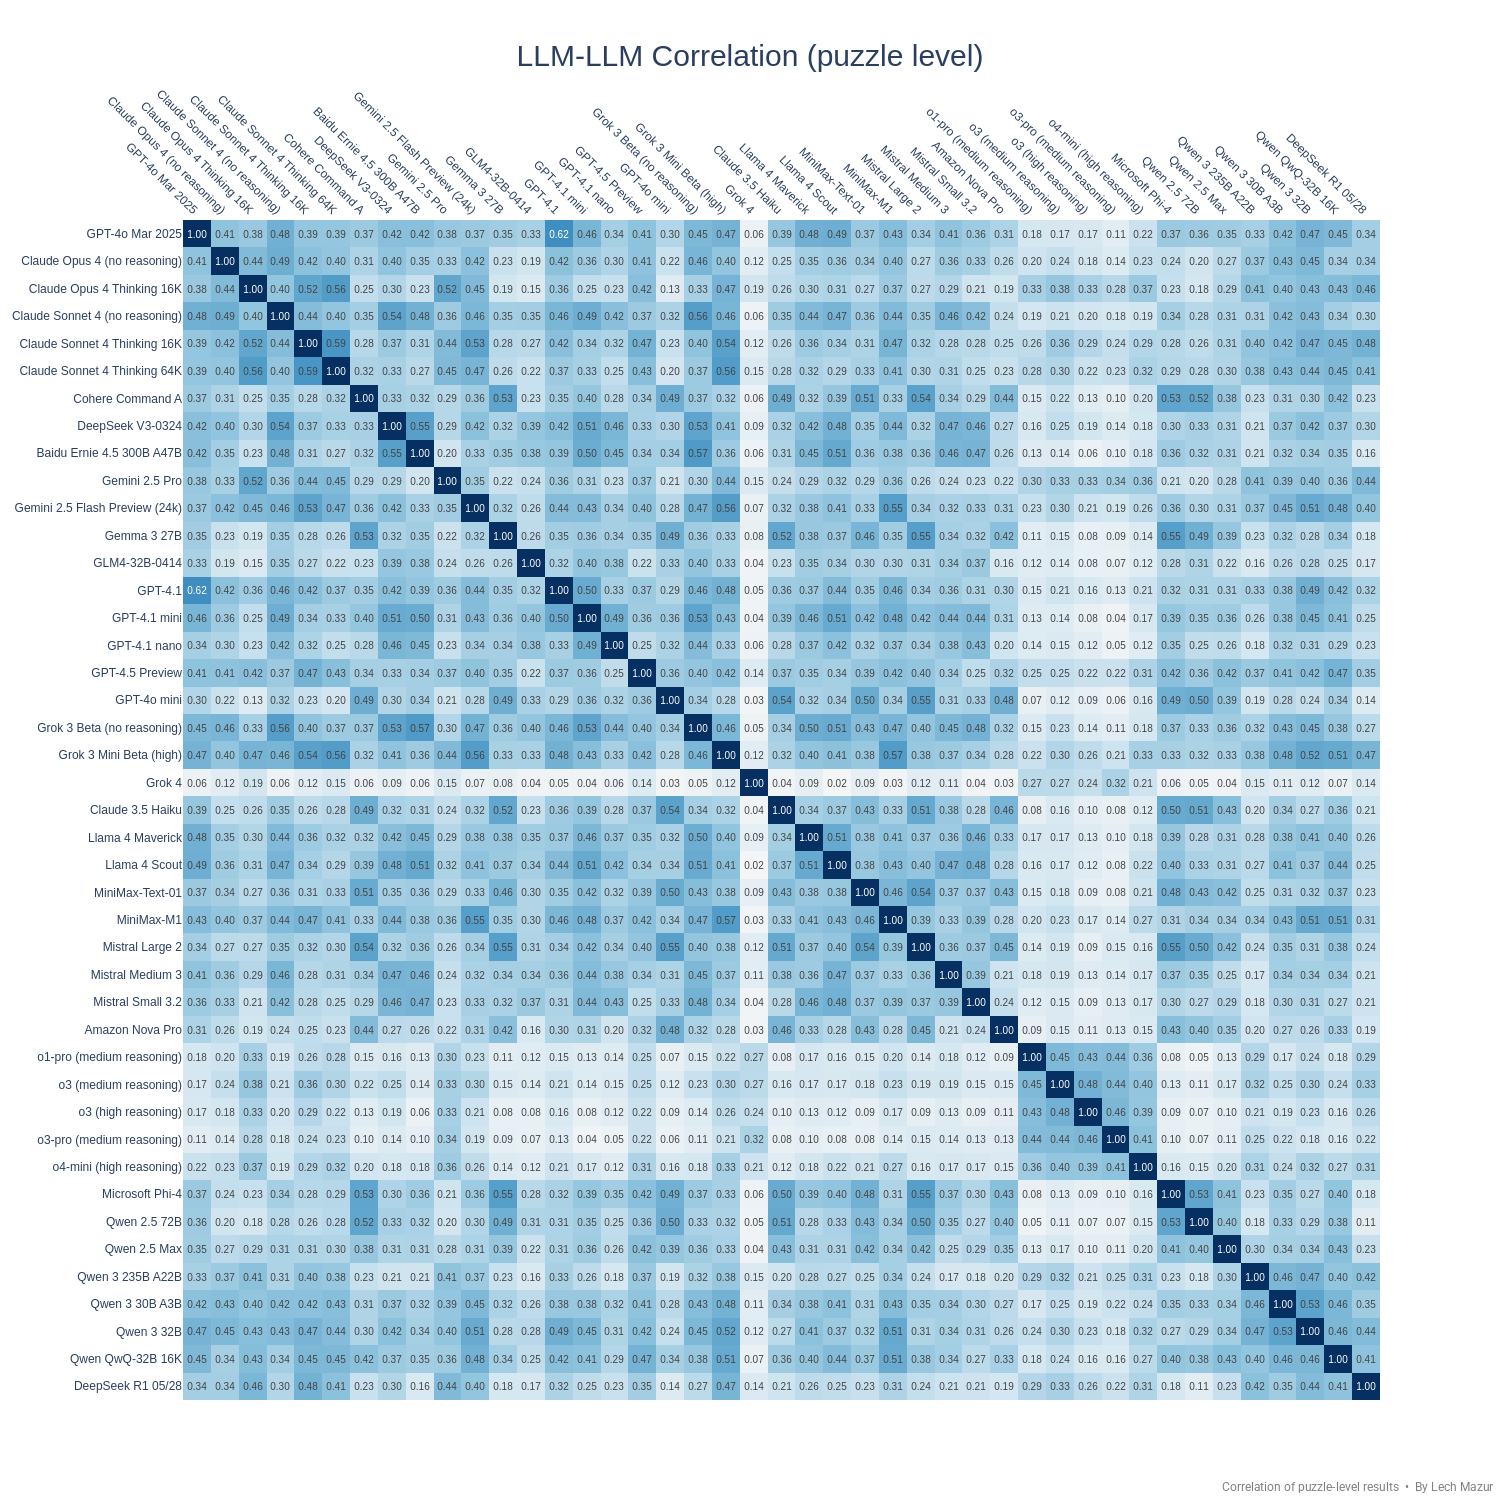
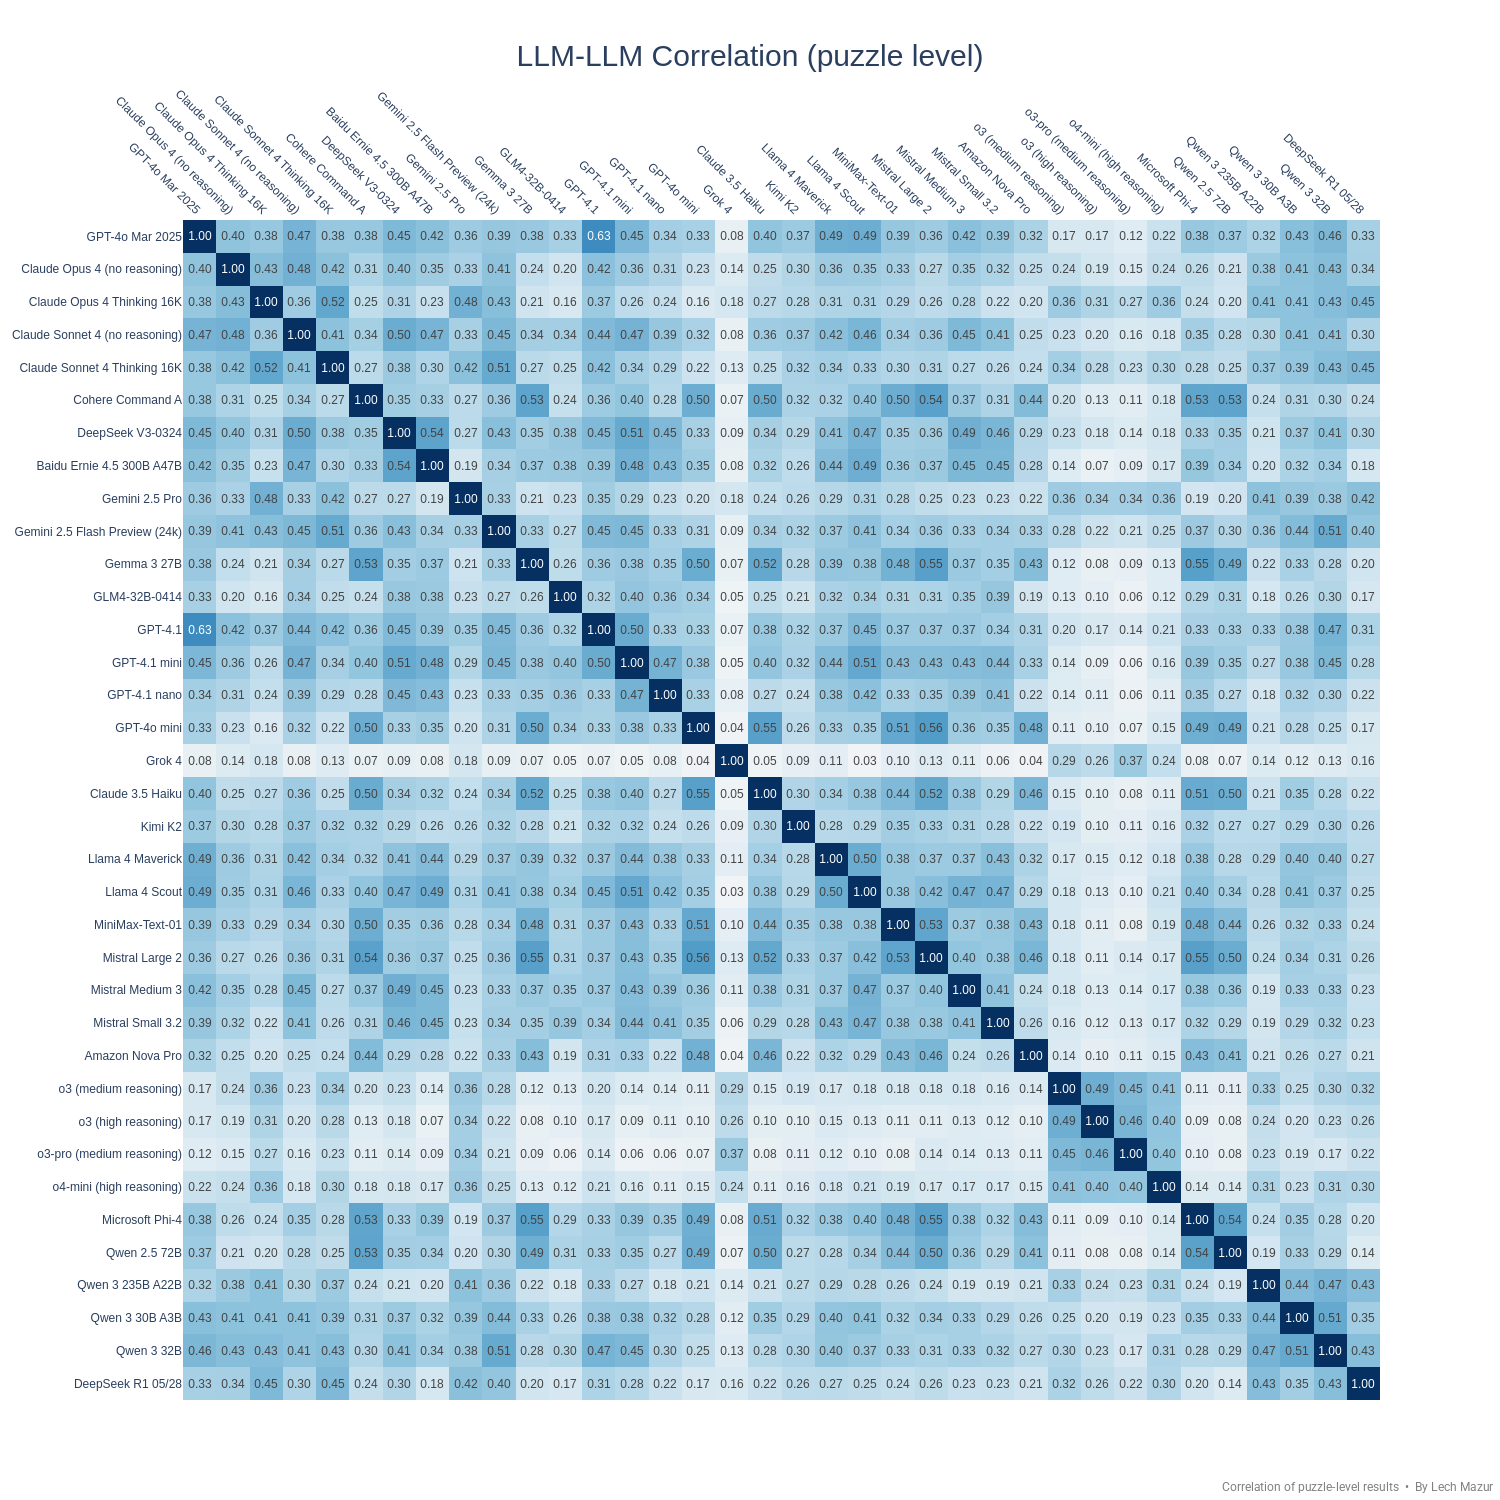
108 new puzzles added. Kimi K2 added

diff --git a/README.md b/README.md
@@ -12,78 +12,79 @@ As of Feb 4, 2025, there is a new version of the benchmark. The standard NYT Con
 
 |Rank|Model|Score %|#Puzzles|
 |---:|-----|------:|-------:|
-|1|Grok 4|92.4|651|
-|2|o3-pro (medium reasoning)|87.3|651|
+|1|Grok 4|91.7|759|
+|2|o3-pro (medium reasoning)|87.4|756|
 |3|o1-pro (medium reasoning)|82.5|651|
-|4|o3 (high reasoning)|79.5|651|
-|5|o4-mini (high reasoning)|74.7|651|
-|6|o3 (medium reasoning)|74.0|651|
+|4|o3 (high reasoning)|78.6|759|
+|5|o4-mini (high reasoning)|73.5|758|
+|6|o3 (medium reasoning)|73.0|759|
 |7|o1 (medium reasoning)|70.8|651|
 |8|o4-mini (medium reasoning)|68.8|651|
 |9|o3-mini (high reasoning)|61.4|651|
-|10|Gemini 2.5 Pro|58.7|651|
-|11|Qwen 3 235B A22B|55.6|651|
+|10|Gemini 2.5 Pro|57.6|759|
+|11|Qwen 3 235B A22B|54.3|759|
 |12|Gemini 2.5 Pro Exp 03-25|54.1|651|
 |13|o3-mini (medium reasoning)|53.6|651|
-|14|Claude Opus 4 Thinking 16K|52.7|651|
-|15|DeepSeek R1 05/28|49.8|651|
+|14|Claude Opus 4 Thinking 16K|49.7|759|
+|15|DeepSeek R1 05/28|48.6|759|
 |16|Gemini 2.5 Pro Preview 05-06|42.5|651|
-|17|Claude Sonnet 4 Thinking 16K|41.4|651|
+|17|Claude Sonnet 4 Thinking 16K|40.3|759|
 |18|Claude Sonnet 4 Thinking 64K|39.6|651|
 |19|DeepSeek R1|38.6|651|
-|20|Qwen 3 30B A3B|38.0|651|
-|21|Qwen 3 32B|37.0|651|
-|22|Claude Opus 4 (no reasoning)|34.8|651|
+|20|Qwen 3 30B A3B|36.6|759|
+|21|Qwen 3 32B|35.8|759|
+|22|Claude Opus 4 (no reasoning)|34.4|759|
 |23|GPT-4.5 Preview|34.2|651|
 |24|Claude 3.7 Sonnet Thinking 16K|33.6|651|
 |25|Qwen QwQ-32B 16K|31.4|651|
-|26|Grok 3 Mini Beta (high)|30.9|651|
+|26|Grok 3 Mini Beta (high)|30.2|759|
 |27|o1-mini|26.9|651|
-|28|Grok 3 Mini Beta (low)|26.0|651|
-|29|Gemini 2.5 Flash Preview (24k)|25.8|651|
-|30|Claude Sonnet 4 (no reasoning)|25.7|651|
-|31|Quasar Alpha|25.4|651|
-|32|GPT-4o Mar 2025|25.2|651|
-|33|GPT-4.1|23.6|651|
-|34|Gemini 2.0 Flash Think Exp 01-21|23.1|649|
+|28|Claude Sonnet 4 (no reasoning)|26.6|759|
+|29|Grok 3 Mini Beta (low)|26.0|651|
+|30|Quasar Alpha|25.4|651|
+|31|Gemini 2.5 Flash Preview (24k)|25.2|759|
+|32|GPT-4o Mar 2025|24.5|759|
+|33|Gemini 2.0 Flash Think Exp 01-21|23.1|649|
+|34|GPT-4.1|22.8|759|
 |35|GPT-4o Feb 2025|22.7|651|
 |36|Gemini 2.0 Pro Exp 02-05|21.7|651|
-|37|MiniMax-M1|21.4|651|
-|38|Grok 3 Beta (no reasoning)|20.3|651|
-|39|Grok 2 12-12|19.2|651|
-|40|Gemini 1.5 Pro (Sept)|19.2|601|
-|41|Claude 3.7 Sonnet|19.2|651|
-|42|Claude 3 Opus|19.2|651|
-|43|Llama 4 Maverick|19.1|651|
+|37|MiniMax-M1|21.3|688|
+|38|Kimi K2|19.8|759|
+|39|Grok 3 Beta (no reasoning)|19.7|759|
+|40|Grok 2 12-12|19.2|651|
+|41|Gemini 1.5 Pro (Sept)|19.2|601|
+|42|Claude 3 Opus|19.2|650|
+|43|Claude 3.7 Sonnet|19.2|651|
 |44|Gemini 2.0 Flash|18.8|651|
 |45|GPT-4o 2024-11-20|18.7|601|
-|46|Qwen 2.5 Max|18.0|651|
-|47|Llama 4 Scout|17.9|651|
+|46|Llama 4 Maverick|18.5|759|
+|47|Qwen 2.5 Max|18.0|651|
 |48|GPT-4o 2024-08-06|17.8|601|
 |49|Claude 3.5 Sonnet 2024-10-22|17.7|651|
-|50|DeepSeek V3-0324|17.4|651|
-|51|Llama 3.1 405B|16.2|651|
-|52|Baidu Ernie 4.5 300B A47B|15.2|651|
+|50|Llama 4 Scout|17.4|759|
+|51|DeepSeek V3-0324|16.8|759|
+|52|Llama 3.1 405B|16.2|651|
 |53|DeepSeek V3|15.1|651|
 |54|Llama 3.3 70B|15.1|651|
-|55|GPT-4.1 mini|15.1|651|
-|56|MiniMax-Text-01|14.6|651|
-|57|Cohere Command A|13.6|651|
-|58|Mistral Large 2|12.6|651|
-|59|Gemma 2 27B|12.2|651|
-|60|Gemma 3 27B|11.8|651|
-|61|Mistral Small 3.2|11.5|651|
-|62|Mistral Medium 3|11.4|651|
+|55|Baidu Ernie 4.5 300B A47B|14.8|759|
+|56|GPT-4.1 mini|14.4|759|
+|57|MiniMax-Text-01|13.8|759|
+|58|Cohere Command A|13.1|759|
+|59|Mistral Large 2|12.4|759|
+|60|Gemma 2 27B|12.2|651|
+|61|Gemma 3 27B|11.6|759|
+|62|Mistral Medium 3|11.5|759|
 |63|Mistral Small 3.1|11.4|651|
-|64|Qwen 2.5 72B|11.1|651|
-|65|Claude 3.5 Haiku|10.3|651|
-|66|Microsoft Phi-4|10.2|651|
-|67|Amazon Nova Pro|10.1|651|
-|68|GPT-4o mini|9.9|651|
-|69|Mistral Small 3|8.9|601|
-|70|GPT-4.1 nano|8.6|651|
-|71|GLM4-32B-0414|7.8|651|
-|72|Claude 3 Haiku|2.2|601|
+|64|Mistral Small 3.2|11.2|759|
+|65|Qwen 2.5 72B|10.5|759|
+|66|Claude 3.5 Haiku|10.0|759|
+|67|Amazon Nova Pro|9.9|759|
+|68|Microsoft Phi-4|9.9|759|
+|69|GPT-4o mini|9.7|759|
+|70|Mistral Small 3|8.9|601|
+|71|GPT-4.1 nano|8.1|759|
+|72|GLM4-32B-0414|7.6|759|
+|73|Claude 3 Haiku|2.2|601|
 
 
 ---
@@ -187,6 +188,7 @@ This benchmark evaluates large language models (LLMs) using 436 NYT Connections 
 ---
 
 ## Updates
+- July 14, 2025: 108 new puzzles added. Kimi K2 added.
 - July 10, 2025: Grok 4 added.
 - July 3, 2025: Qwen 3 32B, GLM4-32B-0414 added.
 - July 2, 2025: Baidu Ernie 4.5 300B A47B, MiniMax-M1, Mistral Small 3.2 added.
